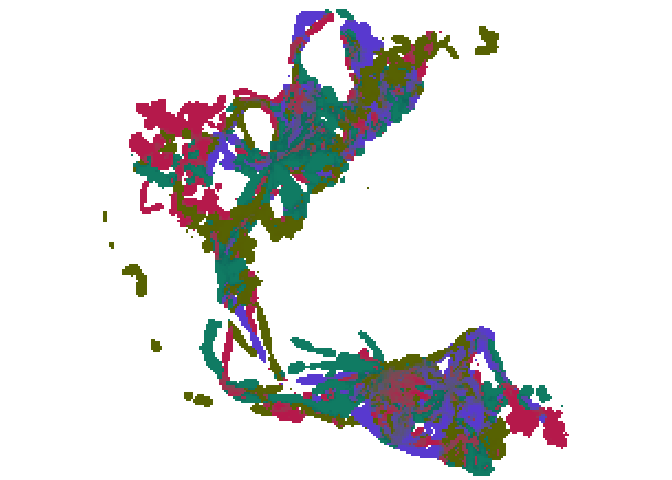
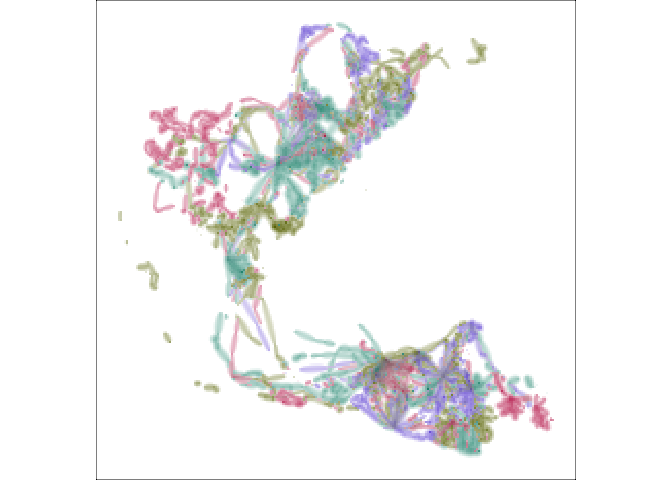
ggplot example

diff --git a/README.md b/README.md
@@ -12,11 +12,7 @@ Package description
 ## Installation
 
 You can install the development version of colorist from
-[GitHub](https://CRAN.R-project.org) with:
-
-``` r
-install.packages("colorist")
-```
+[GitHub](https://github.com/mstrimas/colorist) with:
 
 ``` r
 # install.packages("remotes")
@@ -27,7 +23,7 @@ remotes::install_github("mstrimas/colorist")
 
 ``` r
 library(raster)
-#> Loading required package: sp
+library(ggplot2)
 library(colorist)
 
 # load example data, elephant utlization distribution
@@ -38,8 +34,21 @@ r <- annual_cycle_metrics(elephant_ud)
 pal <- make_hcl_palette(elephant_ud)
 
 # assign colors
-rgb <- metrics_to_colors(r, pal)
-plotRGB(rgb, scale = 1)
+cell_colors <- metrics_to_hex(r, pal)
+
+# map
+cols <- cell_colors$color
+names(cols) <- cell_colors$color
+ggplot(cell_colors) +
+  aes(x = x, y = y, fill = color, alpha = alpha) +
+  geom_tile() +
+  scale_fill_manual(values = cols) +
+  scale_alpha_continuous(trans = scales::boxcox_trans(0.15),
+                         range = c(0.02, 1)) +
+  guides(fill = FALSE, alpha = FALSE) + 
+  coord_equal() +
+  theme_void() +
+  theme(panel.border = element_rect(fill = NA, color = "black"))
 ```
 
 <img src="man/figures/README-usage-1.png" width="100%" />
